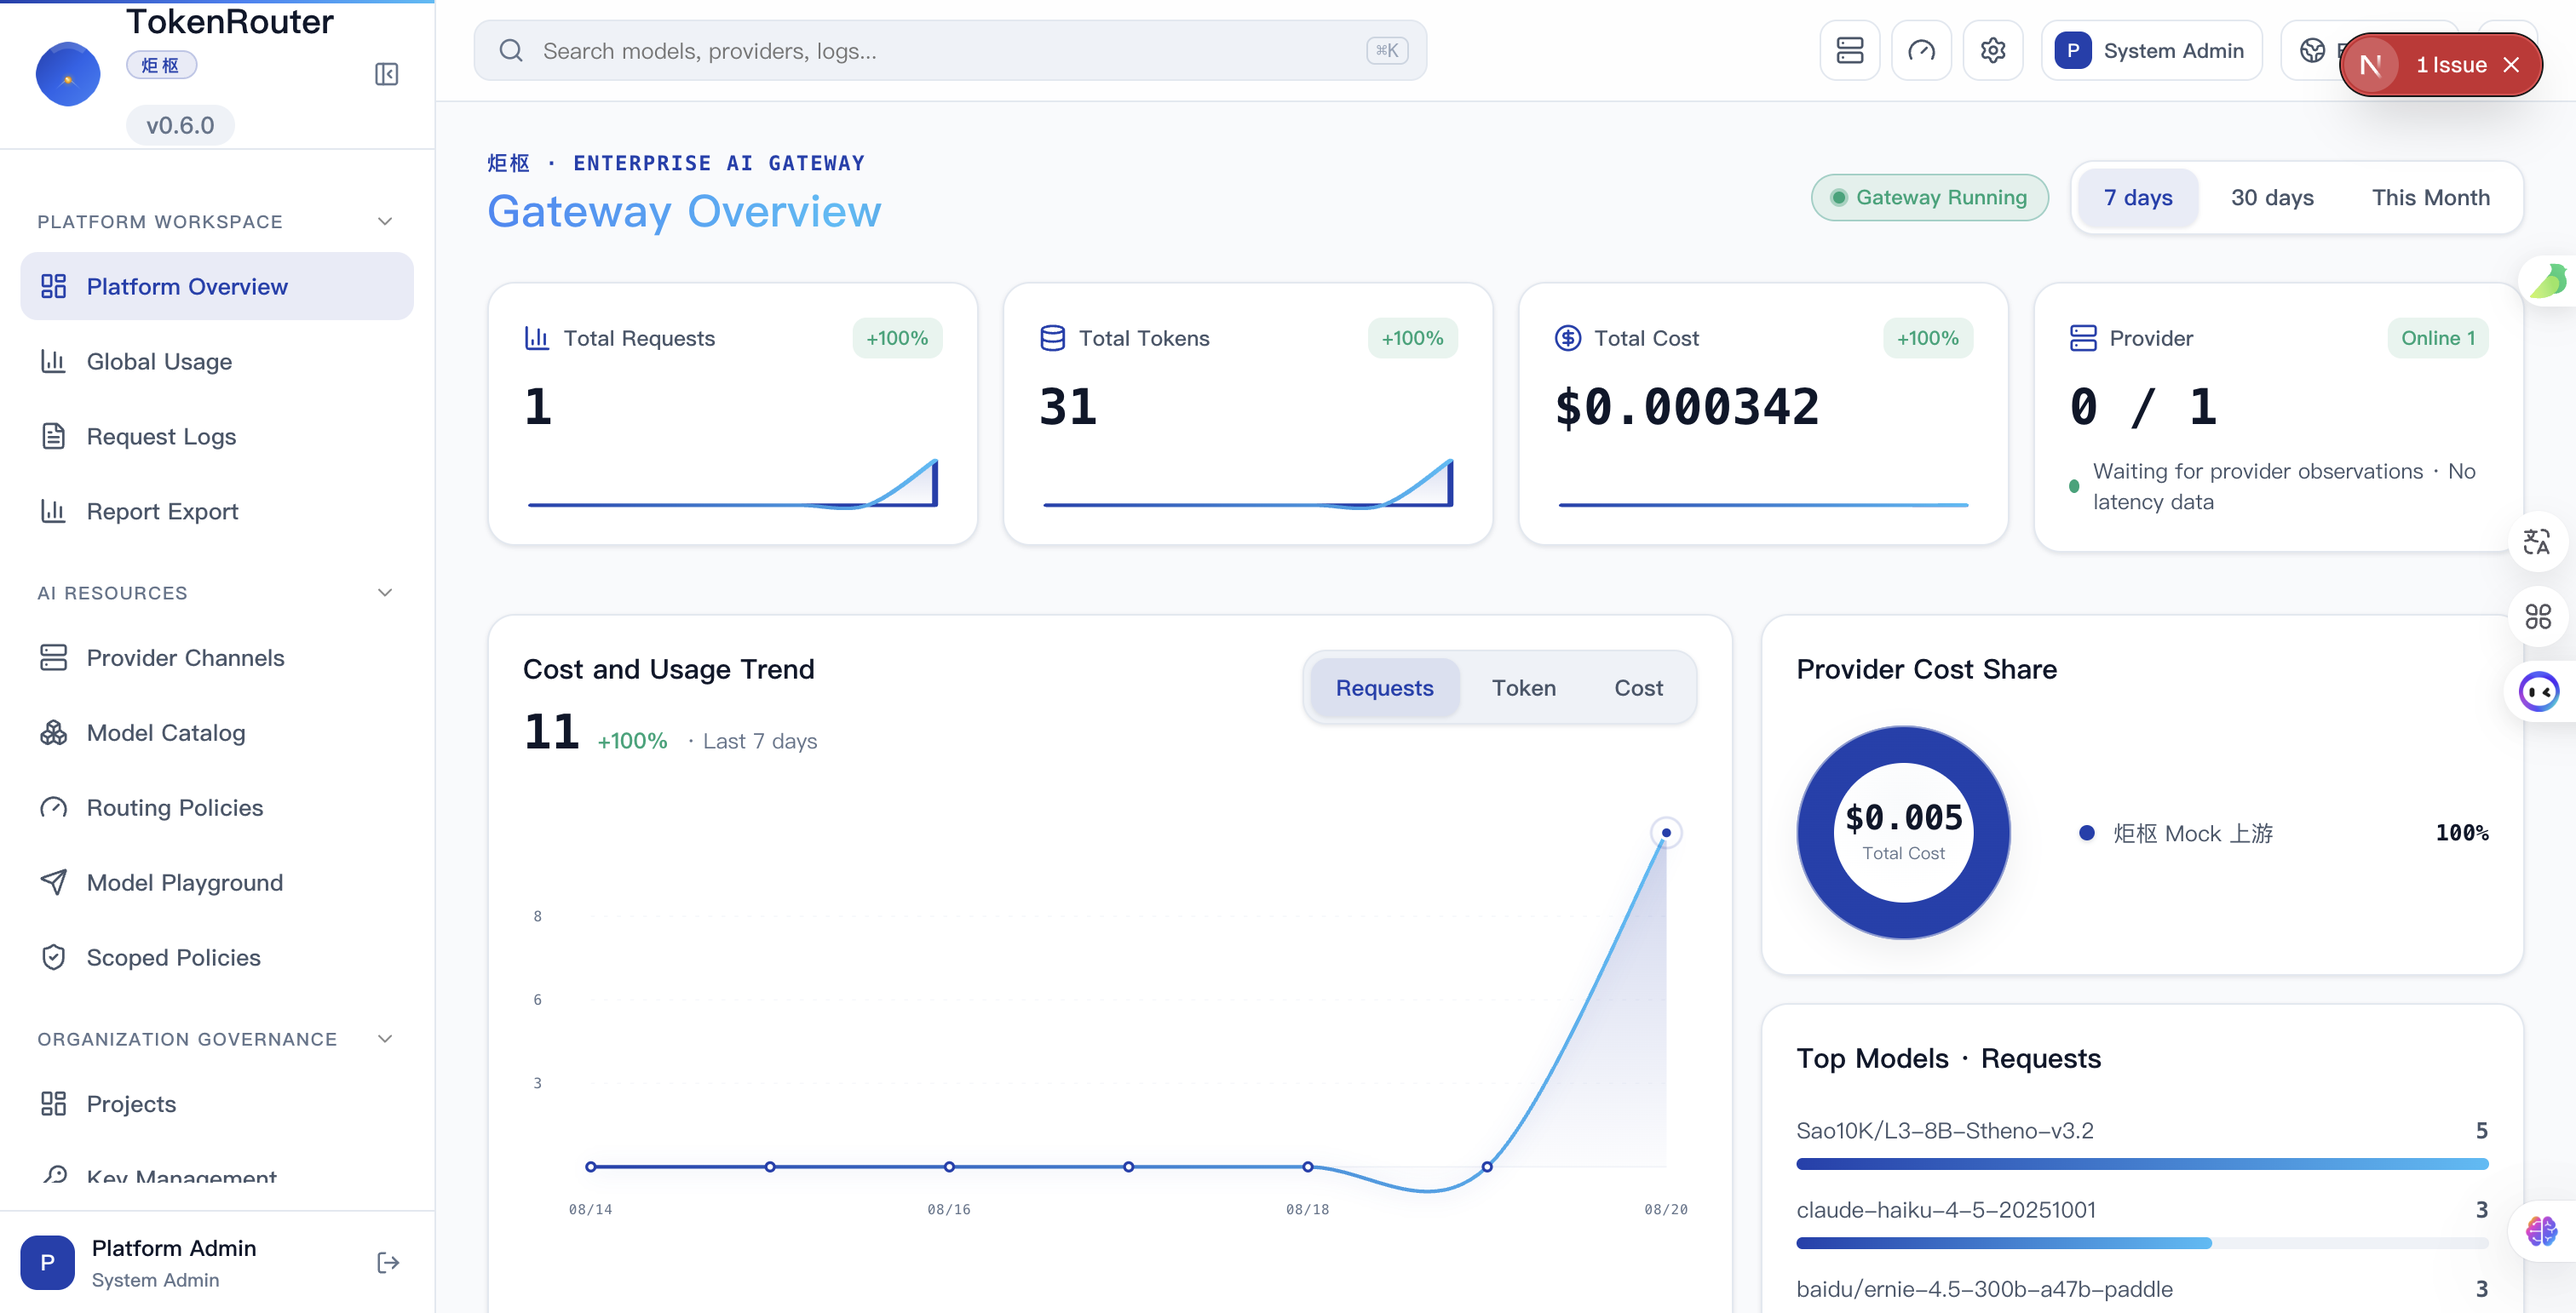
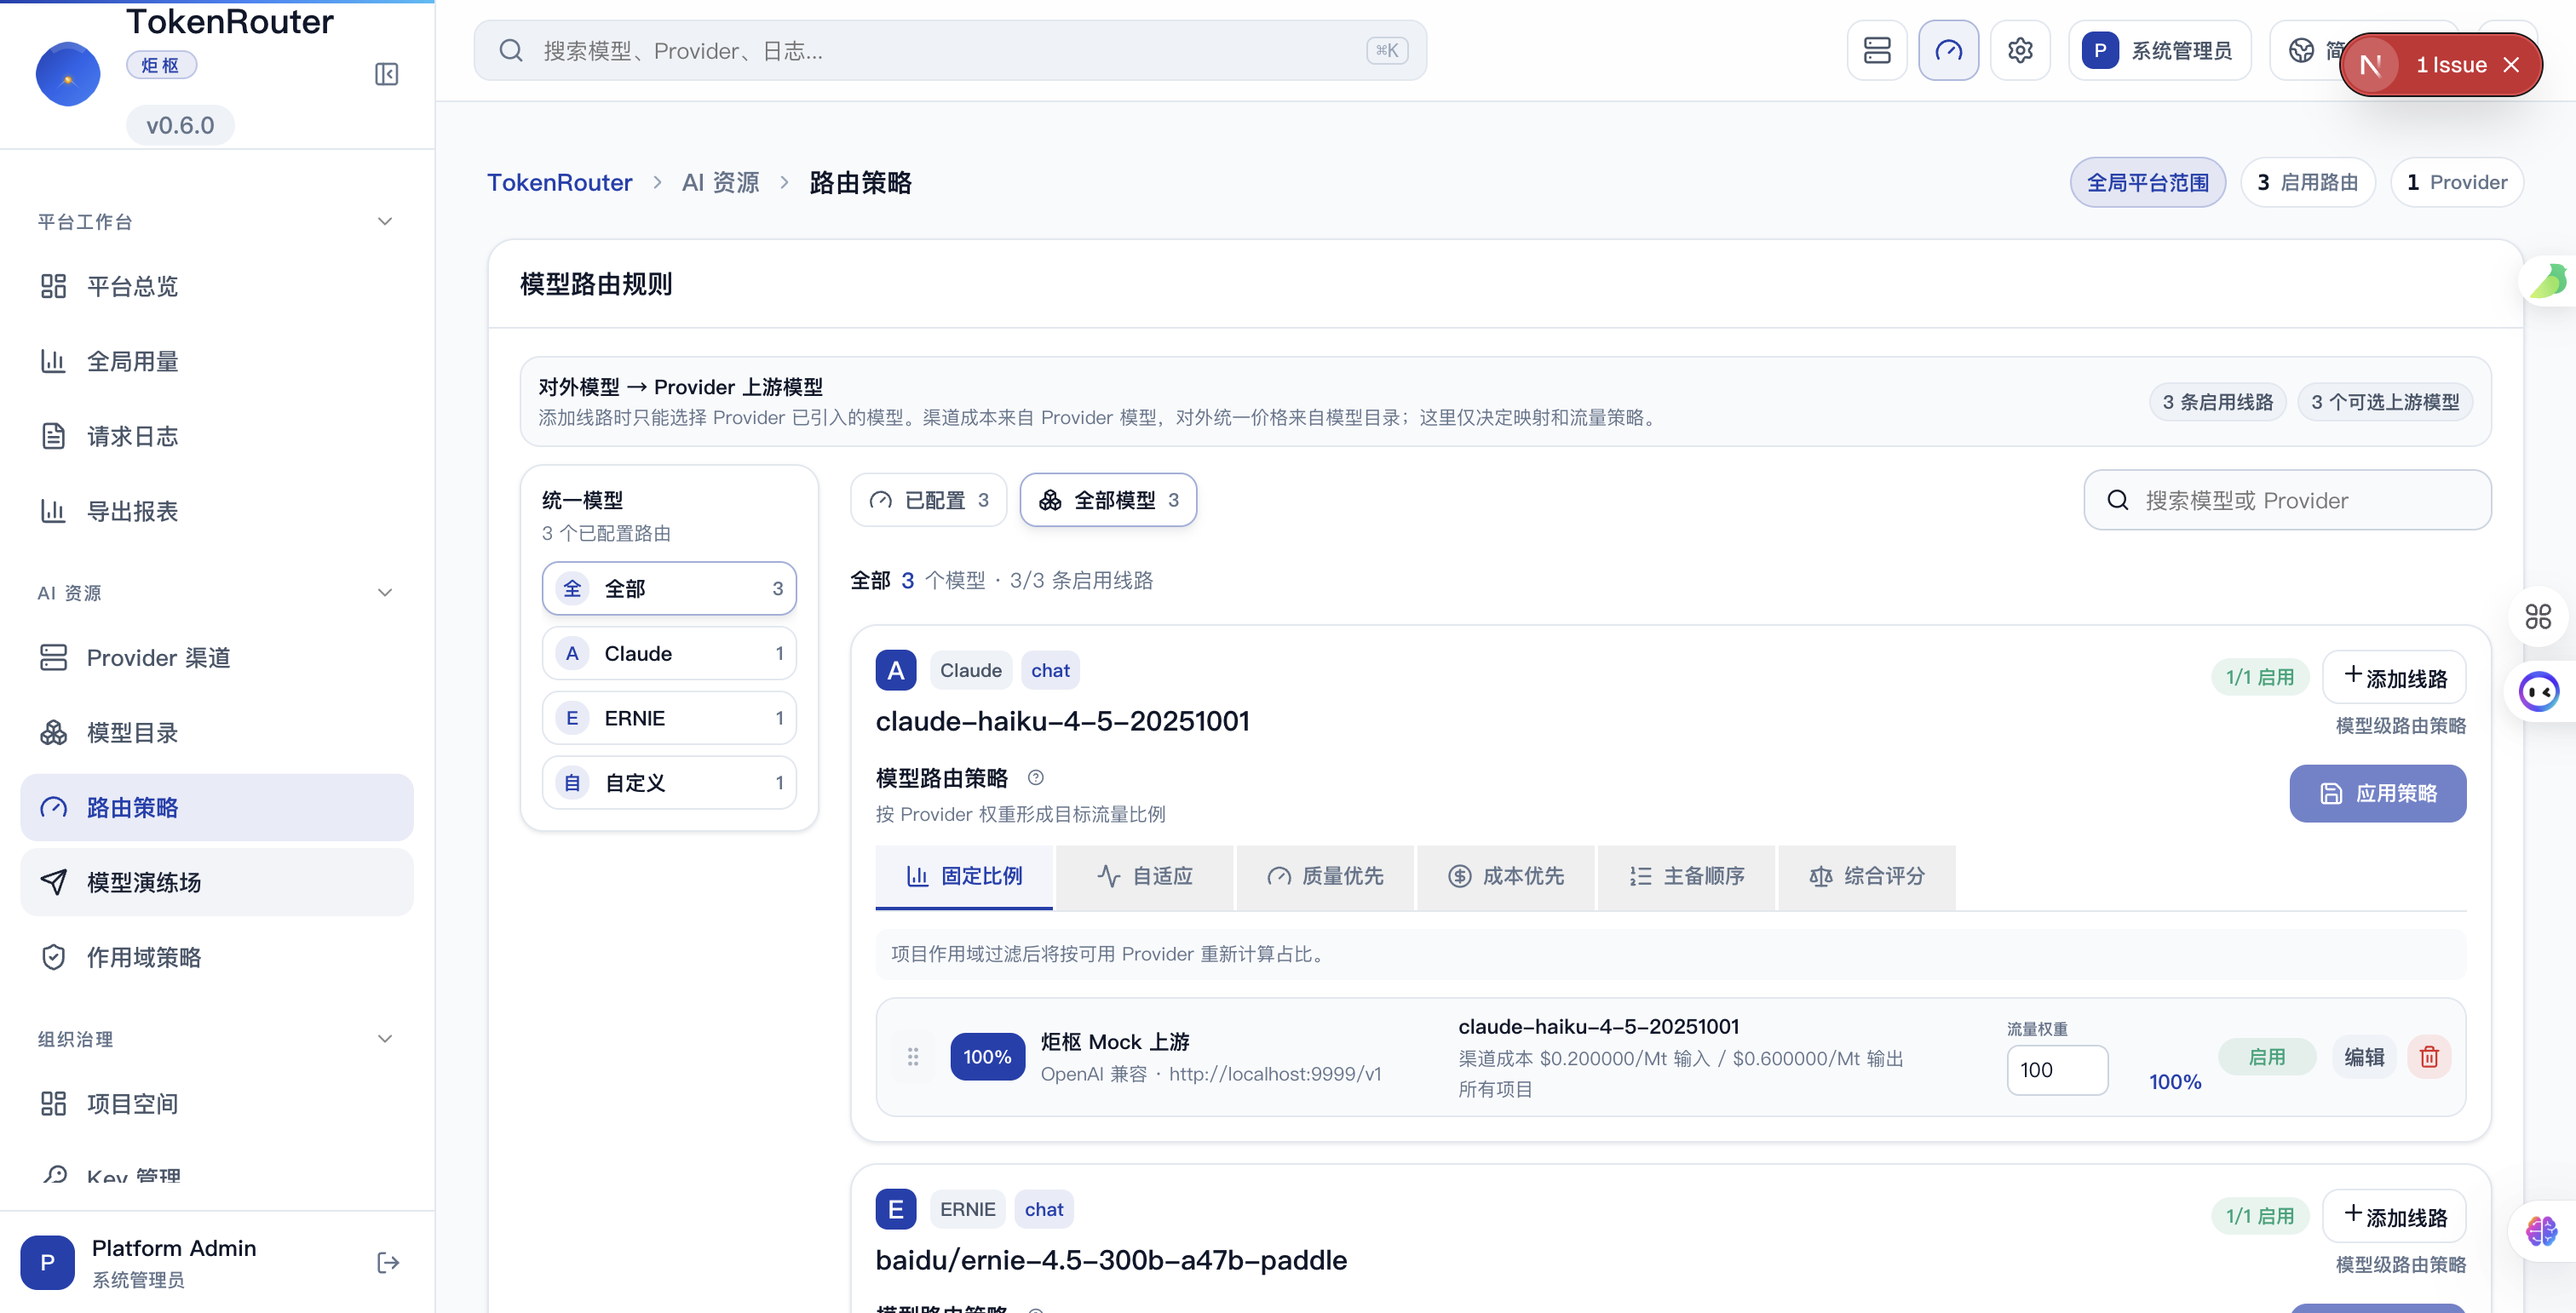
Systematic refactor per react-dashboard-ui: nav fix, interactive charts
- 导航陈旧内容 bug 修复：去掉 AnimatePresence mode='wait'（快速切换会标题新页/内容旧页），改 keyed motion.div 淡入 + 纯条件渲染，实测 /reports 面包屑与内容一致
- 趋势图交互：hover 捕获层 → 竖虚线 + 深色 tooltip（日期+值）+ 数据点放大 + 十字光标
- 环形占比图 SVG 化：12 点起始 dasharray/dashoffset，≤5 色板（蓝/青/紫/琥珀/绿），中心默认最大片 %、hover 显示该片名，悬停联动图例降透明，总成本移入面板头
- prefers-reduced-motion 降级（光晕/脉冲/闪烁/渐变全停）
- 门禁全绿：build/tsc/eslint/126 tests/translations/source-lines

diff --git a/frontend/features/admin/views/overview.tsx b/frontend/features/admin/views/overview.tsx
@@ -981,6 +981,9 @@ export function OverviewTrendChart({ metric, points }: { metric: OverviewMetricK
     return { x, y };
   });
   const last = pts.length ? pts[pts.length - 1] : null;
+  const [hoverIndex, setHoverIndex] = useState<number | null>(null);
+  const hovered = hoverIndex !== null && pts[hoverIndex] ? pts[hoverIndex] : null;
+  const tooltipX = hovered ? Math.min(Math.max(hovered.x, 86), width - 86) : 0;
 
   return (
     <div className="overview-chart-wrap">
@@ -1012,14 +1015,46 @@ export function OverviewTrendChart({ metric, points }: { metric: OverviewMetricK
             className={index === pts.length - 1 ? "overview-chart-dot last" : "overview-chart-dot"}
             cx={point.x}
             cy={point.y}
-            r={index === pts.length - 1 ? 4.6 : 3.2}
+            r={hoverIndex === index ? 6 : index === pts.length - 1 ? 4.6 : 3.2}
             key={index}
+            style={{ transition: "r 0.15s ease" }}
           />
         ))}
         {last ? <circle className="overview-chart-halo" cx={last.x} cy={last.y} r={9} /> : null}
+        {hovered ? (
+          <g className="overview-chart-cursor">
+            <line x1={hovered.x} x2={hovered.x} y1={top} y2={baseline} />
+            <circle className="overview-chart-dot hover" cx={hovered.x} cy={hovered.y} r={6} />
+            <g transform={`translate(${tooltipX} ${top})`}>
+              <rect className="overview-chart-tip-bg" x={-48} y={-6} width={96} height={28} rx={7} />
+              <text className="overview-chart-tip-label" x={0} y={7} textAnchor="middle">
+                {overviewDateLabel(points[hoverIndex as number].date)}
+              </text>
+              <text className="overview-chart-tip-value" x={0} y={19} textAnchor="middle">
+                {overviewMetricDisplay(values[hoverIndex as number], metric)}
+              </text>
+            </g>
+          </g>
+        ) : null}
         {labels.map((item) => (
           <text className="overview-axis-label" key={`${item.label}-${item.x}`} x={item.x} y={height - 10}>{item.label}</text>
         ))}
+        <rect
+          className="overview-chart-hit"
+          x={left}
+          y={top}
+          width={width - left - right}
+          height={baseline - top}
+          fill="transparent"
+          onMouseMove={(event) => {
+            const rect = event.currentTarget.getBoundingClientRect();
+            const chartWidth = width - left - right;
+            const px = ((event.clientX - rect.left) / rect.width) * chartWidth;
+            const index = Math.round((px / chartWidth) * (values.length - 1));
+            setHoverIndex(Math.max(0, Math.min(values.length - 1, index)));
+          }}
+          onMouseLeave={() => setHoverIndex(null)}
+        />
       </svg>
     </div>
   );
@@ -1027,20 +1062,63 @@ export function OverviewTrendChart({ metric, points }: { metric: OverviewMetricK
 
 export function OverviewProviderShare({ rows }: { rows: Array<{ id: string; label: string; percent: number; value: number; cost: number }> }) {
   const totalCost = rows.reduce((sum, row) => sum + row.cost, 0);
+  const [hover, setHover] = useState<number | null>(null);
+  const COLORS = ["#1E40AF", "#38BDF8", "#8B5CF6", "#D97706", "#0FA478"];
+  const r = 42;
+  const C = 2 * Math.PI * r;
+  let acc = 0;
+  const slices = rows.map((row, index) => {
+    const frac = totalCost > 0 ? Math.max(0, row.cost / totalCost) : 0;
+    const slice = { ...row, frac, dash: Math.max(frac * C - 2, 0.75), offset: -acc * C, index };
+    acc += frac;
+    return slice;
+  });
+  const active =
+    hover !== null ? slices[hover] : slices.filter((s) => s.frac > 0).sort((a, b) => b.frac - a.frac)[0] ?? null;
   return (
     <article className="overview-panel overview-share-panel">
-      <h2>{tx("Provider 成本占比")}</h2>
+      <div className="overview-share-head">
+        <h2>{tx("Provider 成本占比")}</h2>
+        <span className="overview-share-total">{totalCost > 0 ? `$${compactNumber(totalCost)}` : "$0"}</span>
+      </div>
       <div className="overview-share-content">
-        <div className="overview-donut" style={{ background: overviewDonutGradient(rows) }}>
-          <div>
-            <strong>{totalCost > 0 ? `$${compactNumber(totalCost)}` : "$0"}</strong>
-            <span>{tx("总成本")}</span>
-          </div>
+        <div className="overview-donut-svg" onMouseLeave={() => setHover(null)}>
+          <svg viewBox="0 0 160 160" role="img" aria-label={tx("Provider 成本占比")}>
+            <g transform="rotate(-90 80 80)">
+              <circle className="overview-donut-track" cx="80" cy="80" r={r} />
+              {slices.map((slice) => (
+                <circle
+                  className="overview-donut-segment"
+                  cx="80"
+                  cy="80"
+                  r={r}
+                  stroke={COLORS[slice.index % COLORS.length]}
+                  strokeDasharray={`${slice.dash} ${C}`}
+                  strokeDashoffset={slice.offset}
+                  opacity={hover === null || hover === slice.index ? 1 : 0.35}
+                  onMouseEnter={() => setHover(slice.index)}
+                  key={slice.id}
+                />
+              ))}
+            </g>
+            <text className="overview-donut-center-value" x="80" y="76" textAnchor="middle">
+              {active ? `${active.percent}%` : "0%"}
+            </text>
+            <text className="overview-donut-center-label" x="80" y="94" textAnchor="middle">
+              {hover !== null && active ? active.label : tx("总成本")}
+            </text>
+          </svg>
         </div>
         <div className="overview-share-list">
           {rows.length ? rows.map((row, index) => (
-            <div className="overview-share-row" key={row.id}>
-              <span className={`overview-share-dot color-${index}`} />
+            <div
+              className="overview-share-row"
+              key={row.id}
+              onMouseEnter={() => setHover(index)}
+              onMouseLeave={() => setHover(null)}
+              style={{ opacity: hover === null || hover === index ? 1 : 0.45, transition: "opacity 0.18s" }}
+            >
+              <span className="overview-share-dot" style={{ background: COLORS[index % COLORS.length] }} />
               <span>{row.label}</span>
               <strong>{row.percent}%</strong>
             </div>

diff --git a/frontend/app/styles/redesign/tokenrouter.css b/frontend/app/styles/redesign/tokenrouter.css
@@ -322,3 +322,110 @@
   color: var(--ink-2);
   font-weight: 650;
 }
+
+/* ===== 环形占比图 SVG ===== */
+.overview-share-head {
+  display: flex;
+  align-items: baseline;
+  justify-content: space-between;
+  gap: 10px;
+}
+
+.overview-share-total {
+  font-family: var(--font-mono);
+  font-variant-numeric: tabular-nums;
+  font-size: 13px;
+  font-weight: 700;
+  color: var(--ink-2);
+}
+
+.overview-donut-svg {
+  width: 148px;
+  flex: 0 0 auto;
+}
+
+.overview-donut-svg svg {
+  width: 100%;
+  height: auto;
+  display: block;
+}
+
+.overview-donut-track {
+  fill: none;
+  stroke: var(--surface-3);
+  stroke-width: 26;
+}
+
+.overview-donut-segment {
+  fill: none;
+  stroke-width: 26;
+  stroke-linecap: butt;
+  transition: opacity 0.18s ease;
+  cursor: pointer;
+}
+
+.overview-donut-center-value {
+  font-family: var(--font-mono);
+  font-variant-numeric: tabular-nums;
+  font-size: 21px;
+  font-weight: 700;
+  fill: var(--ink);
+}
+
+.overview-donut-center-label {
+  font-size: 10px;
+  fill: var(--ink-3);
+  letter-spacing: 0.02em;
+}
+
+/* ===== 趋势图 hover ===== */
+.overview-chart-hit {
+  cursor: crosshair;
+}
+
+.overview-chart-cursor line {
+  stroke: var(--ink-4);
+  stroke-width: 1;
+  stroke-dasharray: 3 4;
+  opacity: 0.8;
+}
+
+.overview-chart-dot.hover {
+  fill: var(--accent);
+  stroke: var(--surface);
+  stroke-width: 2.4;
+}
+
+.overview-chart-tip-bg {
+  fill: #0f172a;
+  opacity: 0.94;
+}
+
+.overview-chart-tip-label {
+  fill: #94a3b8;
+  font-size: 10px;
+  font-family: var(--font-mono);
+}
+
+.overview-chart-tip-value {
+  fill: #ffffff;
+  font-size: 11.5px;
+  font-weight: 700;
+  font-family: var(--font-mono);
+}
+
+/* ===== 无障碍：尊重 reduced-motion ===== */
+@media (prefers-reduced-motion: reduce) {
+  .overview-chart-halo,
+  .live-dot,
+  .shiny-text,
+  .animated-gradient-text .gradient-overlay,
+  .animated-gradient-text .text-content {
+    animation: none !important;
+  }
+  .overview-progress span,
+  .overview-donut-segment,
+  .overview-share-row {
+    transition: none !important;
+  }
+}

diff --git a/frontend/features/admin/shell/admin-console.tsx b/frontend/features/admin/shell/admin-console.tsx
@@ -1,6 +1,6 @@
 "use client";
 
-import { AnimatePresence, motion } from "motion/react";
+import { motion } from "motion/react";
 import { usePathname, useRouter } from "next/navigation";
 import { useCallback, useEffect, useMemo, useState } from "react";
 import { type LoadedData, loadPlanForView, mergeLoadedData } from "../core/data-loading";
@@ -847,14 +847,12 @@ export function AdminConsole({ defaultBaseURL }: { defaultBaseURL: string }) {
 
           {activeView === "playground" ? null : <div className="divider" />}
 
-          <AnimatePresence mode="wait" initial={false}>
-            <motion.div
-              key={activeView}
-              initial={{ opacity: 0, y: 10 }}
-              animate={{ opacity: 1, y: 0 }}
-              exit={{ opacity: 0, y: -6 }}
-              transition={{ duration: 0.18, ease: "easeOut" }}
-            >
+          <motion.div
+            key={activeView}
+            initial={{ opacity: 0, y: 8 }}
+            animate={{ opacity: 1, y: 0 }}
+            transition={{ duration: 0.2, ease: "easeOut" }}
+          >
           {activeView === "overview" ? (
             <OverviewView data={data} user={currentUser} onSelectView={selectView} />
           ) : activeView === "playground" ? (
@@ -998,8 +996,7 @@ export function AdminConsole({ defaultBaseURL }: { defaultBaseURL: string }) {
               />
             </>
           ) : null}
-            </motion.div>
-          </AnimatePresence>
+          </motion.div>
         </div>
       </section>
 
